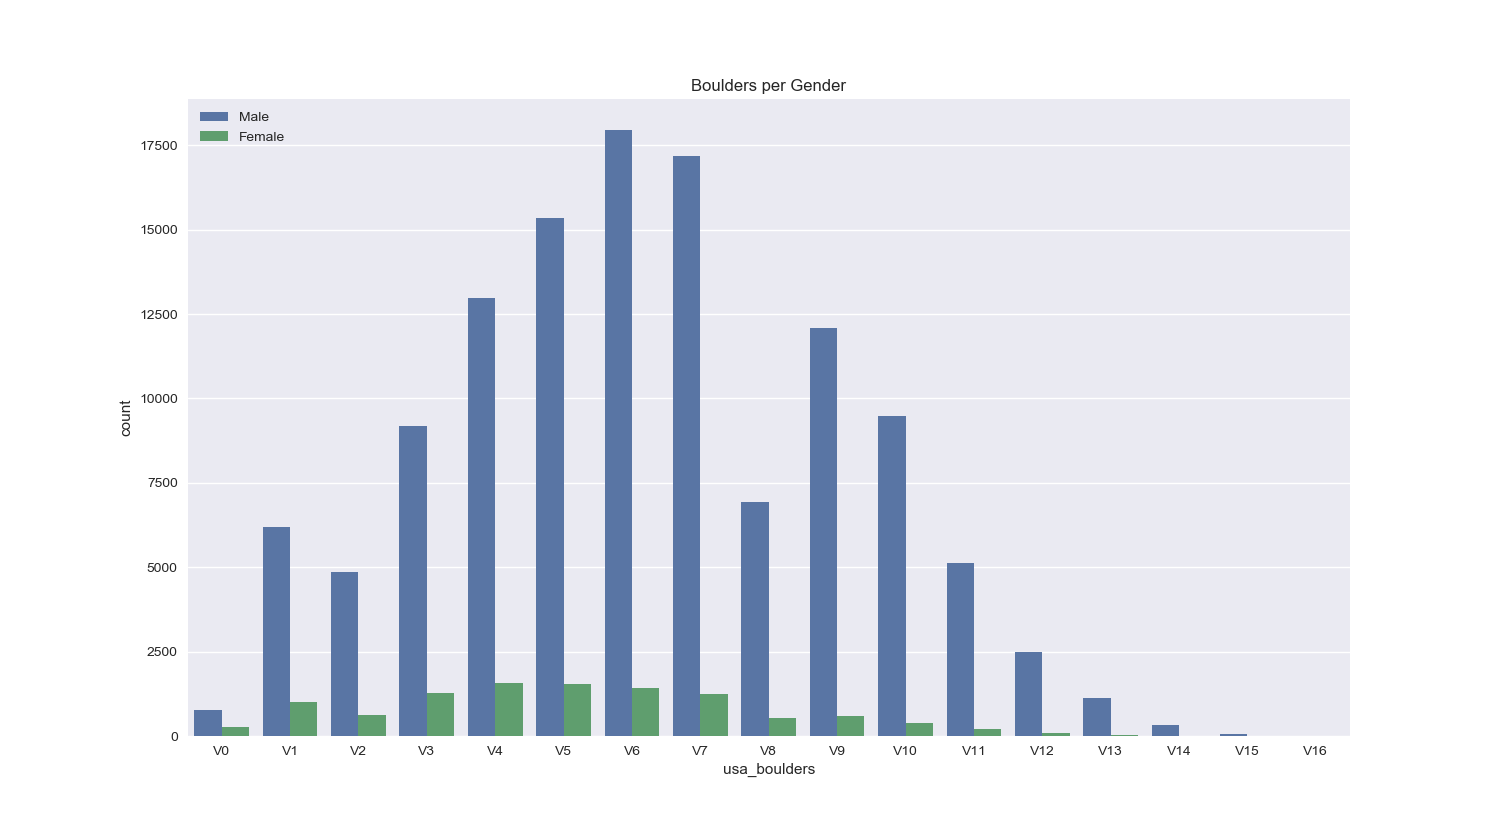
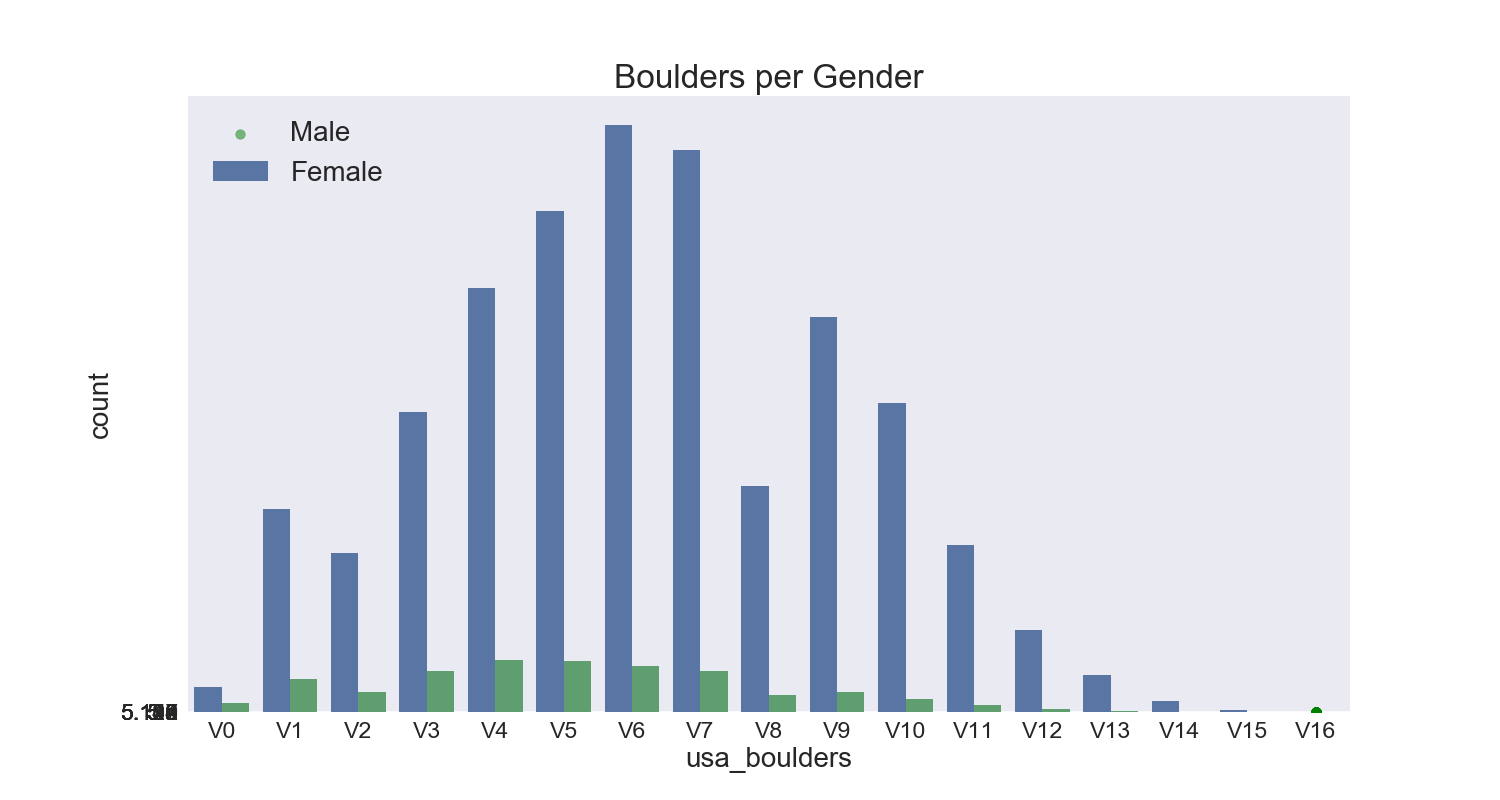
Plots for grades vs age

diff --git a/src/eda.py b/src/eda.py
@@ -10,7 +10,7 @@ mpl.rcParams.update({
     'axes.labelsize'      : 'medium',
     'xtick.labelsize'     : 'small',
     'ytick.labelsize'     : 'small',
-    'legend.fontsize'     : 'large',
+    'legend.fontsize'     : 'medium',
 })
 
 boulders = pd.read_csv('/Users/Kelly/galvanize/capstones/mod1/data/boulders.csv')
@@ -27,7 +27,19 @@ def plot_routes():
     plt.savefig('images/routes_per_gender.png')
     plt.clf()
 
-
+    fig2 = plt.figure(figsize=(15,8))
+    ax2 = fig2.add_subplot(111)
+    # ax2.set_ylim(5.00,5.20)
+    ax2.scatter(x=routes.age,y=routes.usa_routes,color='green',alpha=0.5)
+    start, end = ax2.get_ylim()
+    ax2.yaxis.set_ticks(np.arange(start, end, .01))
+    ax2.set_yticklabels([0,'5.4','5.5','5.6','5.7','5.8','5.9','5.10a','5.11a','5.12a','5.13a','5.14a','5.15a'])
+    ax2.set_xlabel('Age')
+    ax2.set_ylabel('Route grade')
+    ax2.set_title('Routes per Age')
+    plt.savefig('images/routes_per_age.png')
+    plt.clf()
+    
 def plot_boulders():
     bpg = sns.countplot(x='usa_boulders', hue = 'sex', data=boulders)
     handles, _ = bpg.get_legend_handles_labels()
@@ -38,12 +50,14 @@ def plot_boulders():
     plt.clf()
 
 
-fig = plt.figure(figsize=(15,8))
-ax = fig.add_subplot(111)
-ax.set_xlim(-1,17)
-ax.scatter(x=boulders.usa_boulders.values,y=boulders.age.values,color='green',alpha=0.5)
-ax.set_xticklabels(['V0','V1','V2','V3','V4','V5','V6','V7','V8','V9','V10','V11','V12','V13','V14','V15','V16'])
-ax.set_ylabel('Age')
-ax.set_xlabel('Boulder grade')
-ax.set_title('Boulders per Age')
-plt.show()
+    fig = plt.figure(figsize=(15,8))
+    ax = fig.add_subplot(111)
+    ax.scatter(x=boulders.age,y=boulders.usa_boulders,color='green',alpha=0.5)
+    start, end = ax.get_ylim()
+    ax.yaxis.set_ticks(np.arange(start, end, 1))
+    ax.set_yticklabels(('V0','V1','V2','V3','V4','V5','V6','V7','V8','V9','V10','V11','V12','V13','V14','V15','V16'))
+    ax.set_xlabel('Age')
+    ax.set_ylabel('Boulder grade')
+    ax.set_title('Boulders per Age')
+    plt.savefig('images/boulders_per_age.png')
+    plt.clf()
